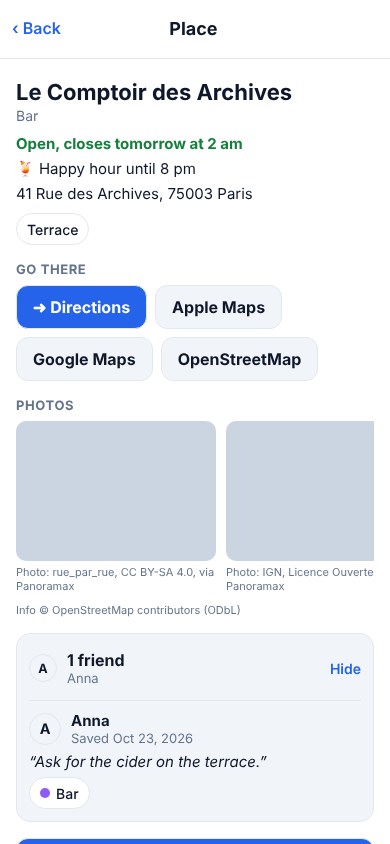
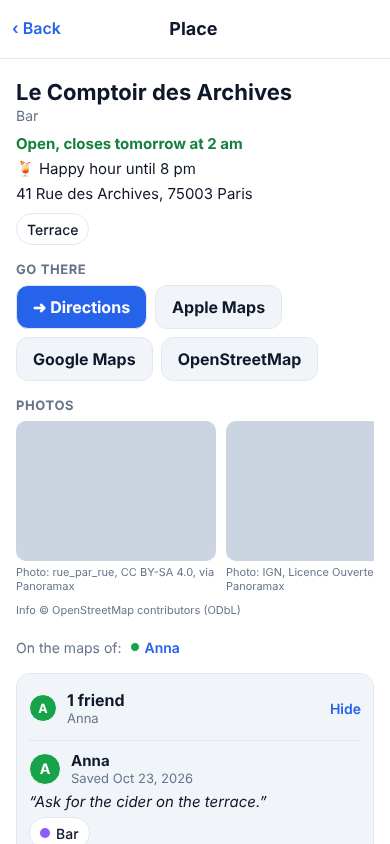
Docs: regenerated friends screenshots (dots, Whose places panel, On the maps of)
Claude-Session: https://claude.ai/code/session_012CM7dgj8yXU4ABXk5tsm56

diff --git a/apps/mobile/README.md b/apps/mobile/README.md
@@ -924,7 +924,7 @@ contexts: Anna and Ben):
 
 | File | Shows |
 | --- | --- |
-| `docs/phone-friends-map.png` | Ben's map with "Also at my friends'": friends' places in color; What's new badge |
+| `docs/phone-friends-map.png` | Ben's map with "Also at my friends'": friends' places in color, with Anna's dot; What's new badge |
 | `docs/phone-card-friends.png`, `docs/tablet-fr-card-friends.png` | "1 friend" on the card, opened: who, when, status, comment, their tag in their color |
 | `docs/phone-friends-picker.png` | Whose places: shortcuts, me and each friend, with places per friend |
 | `docs/phone-whatsnew.png`, `docs/phone-fr-whatsnew.png` | What's new: a comment and a favorite (unseen dots), her first places as one item |
